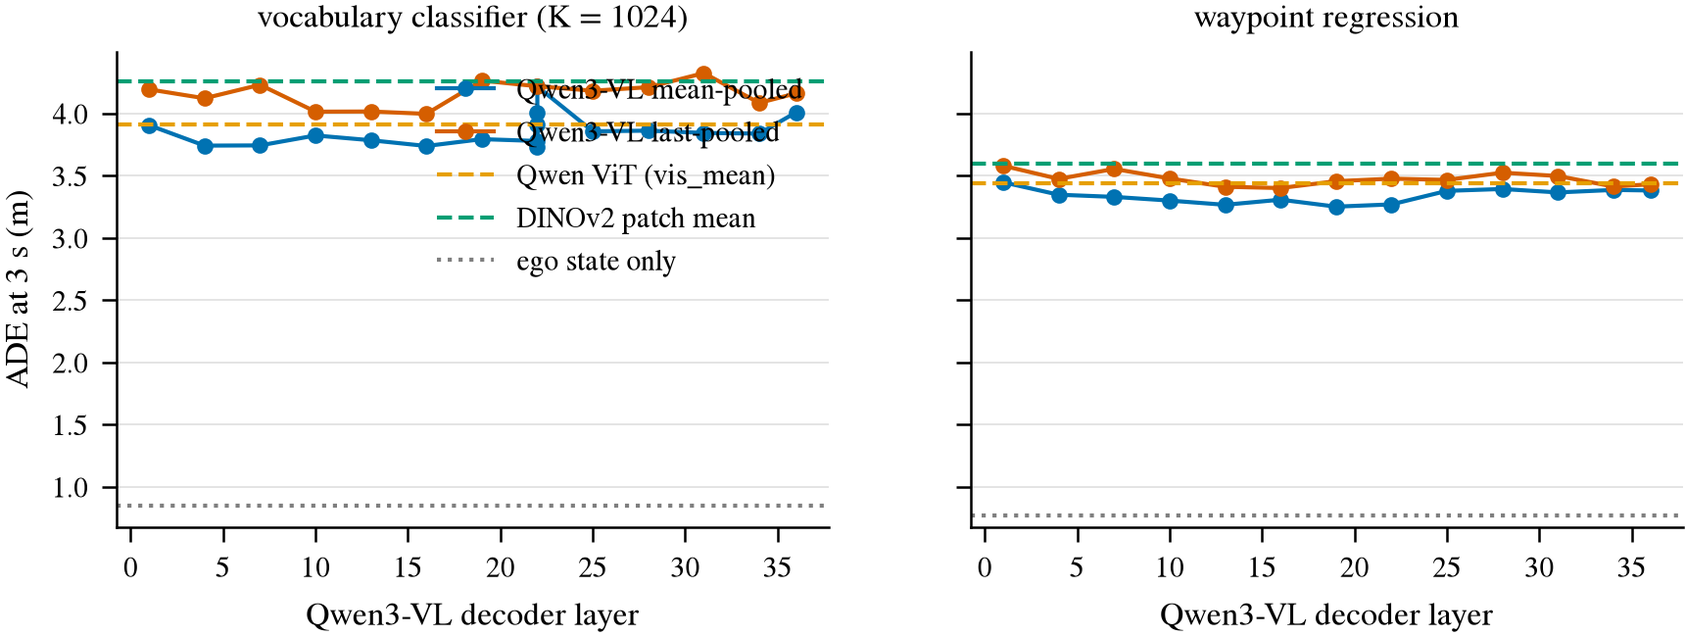
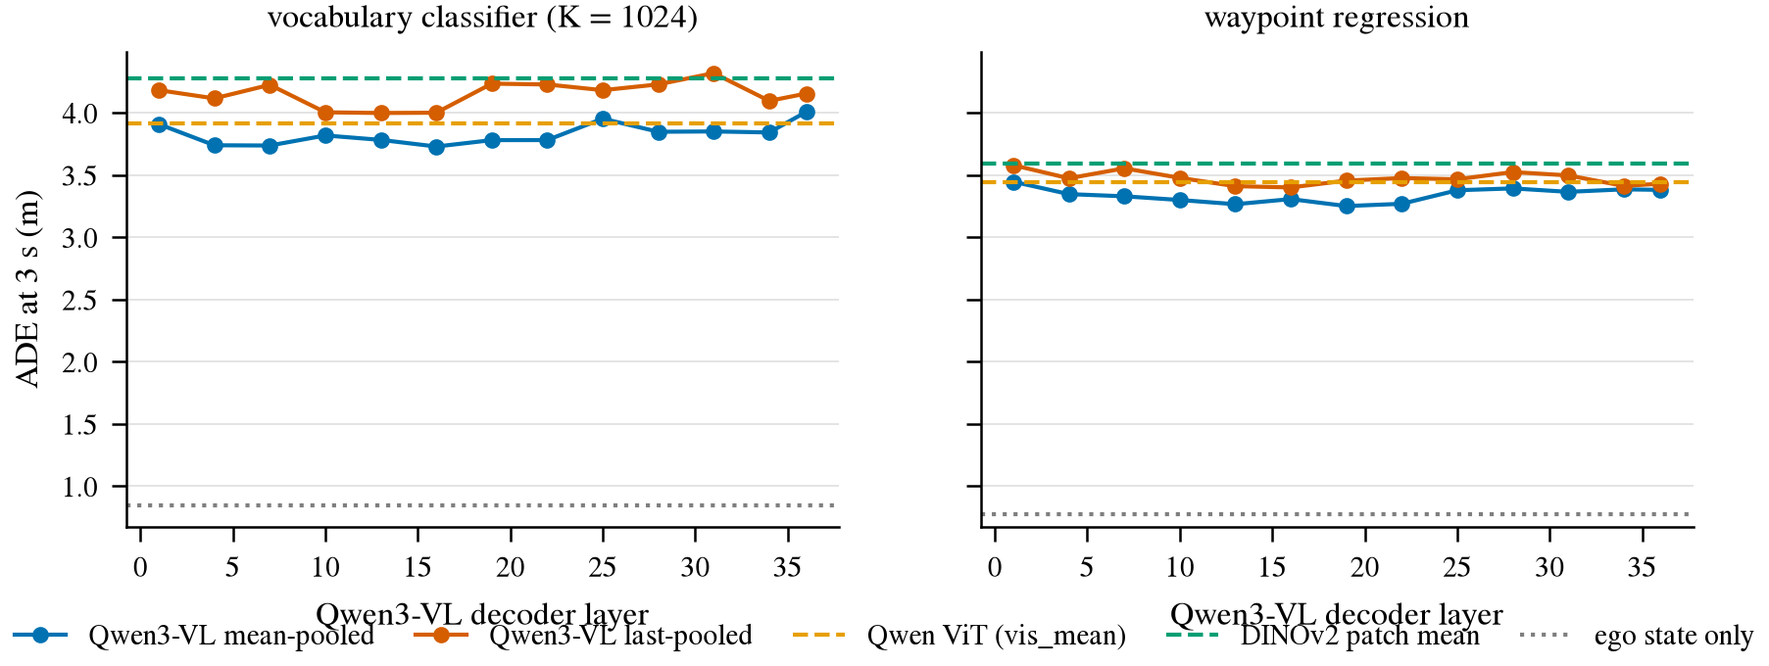
planner v0: write up the nuScenes dry run
Run 20260920-104548, 24752 frames over 850 scenes, official split by scene, 13.6 min end to end.

The two metrics disagree about K, which is the finding worth keeping: the oracle minADE says 64 anchors
already cover the data, while the trust-region coverage says K = 64 forfeits 16.2 % of frames outright and
only K >= 1024 gets that under 1 %. Either way the classifier's own error does not move with K, so all of it
is ranking, none of it coverage. Classification costs 0.51 m of ADE against ridge on the same features but
misses the trust region 9.5 points less often -- the averaged trajectory is nobody's manoeuvre.
Mid-depth mean-pooled Qwen features win (L19-L22, matching the probe's turn curve) but by 0.2 m against a
CI half-width of 0.27, so the layer choice leans on the probe, not on this table. Vision on top of the ego
state is worth 3.8 % of ADE and 2.9 points of miss via late fusion, and nothing at all via PCA concat; the
increment does not show up on the pre-onset subset, which has only 135 frames here. The head itself costs
under 0.1 ms at batch 1 for every K, and truncating the decoder at L22 is a real 31 % saving at batch 8 but
only 7 % at batch 1.

diff --git a/todos/2026-09-20-planner-v0.md b/todos/2026-09-20-planner-v0.md
@@ -1,6 +1,6 @@
 # Planner v0：在 nuScenes 上彩排 Stage-A 轨迹词表规划器
 
-状态: running
+状态: done
 主题: ../research/frozen-vlm-planner.md
 
 ## 目标
@@ -9,26 +9,26 @@
 "词表"，在线时只让一个很薄的 head 给每条候选打分、选一条输出）——整条代码、指标和表格先在 nuScenes 上
 跑通一遍，然后原样指向 Waymo E2E。
 
-这里得到的数字**不是结论**：nuScenes 只有前视单帧、3 s horizon，而且 open-loop ADE 早就被证明由 ego state
-主导。这一版要回答的是工程和方法学问题：词表多大够用、frozen feature 该取哪一层、classification 比
-regression 差多少、视觉到底比 ego-only 和物理外推强多少、head 本身有多快。
+这里得到的数字**不是结论**：nuScenes 只有前视单帧、3 s horizon，而且 open-loop 位移误差早就被证明
+由 ego state 主导。这一版要回答的是工程和方法学问题：词表多大够用、frozen feature 该取哪一层、
+classification 比 regression 差多少、视觉到底比 ego-only 和物理外推强多少、head 本身有多快。
 
 ## Setup
 
 - 数据: nuScenes v1.0-trainval，CAM_FRONT keyframe（2 Hz），官方 train/val scene 划分。
 - Feature: 已经缓存好的 frozen feature，`$DATA_DIR/processed/nuscenes/v1.0-trainval/features/`
-  下的 `qwen_w800`（Qwen3-VL-4B-Instruct，输入宽 800 px，36 层 × {last, mean} 两种 pooling，2560 维）、
-  `qwen`（原分辨率）和 `dinov2`（ViT-B/14，cls 和 patch_mean）。这一版不重新抽 feature。
+  下的 `qwen_w800`（Qwen3-VL-4B-Instruct，输入宽 800 px，36 层 × {last, mean} 两种 pooling，2560 维）
+  和 `dinov2`（ViT-B/14，cls 和 patch_mean）。这一版不重新抽 feature。
 - 模型: 只训 head，backbone 完全冻结。
-- 算力预算: 单卡 RTX PRO 6000，整条链路 < 1 h。
+- 算力预算: 单卡 RTX PRO 6000，整条链路 < 1 h（实测 13.6 min）。
 
 ## 步骤
 
 - [x] 轨迹目标：3 s / 2 Hz / 6 个 waypoint，horizon 和 rate 是参数
-- [x] 词表：train split 上 k-means，K ∈ {64, 256, 1024, 4096, 8192}，报 oracle minADE/minFDE
+- [x] 词表：train split 上 k-means，K ∈ {64, 256, 1024, 4096, 8192}，报 oracle minADE/minFDE 和 trust-region 覆盖率
 - [x] Head：classification（hard / soft target）、ridge regression、MLP，以及 ego-only 和物理 baseline
 - [x] Feature 对比：DINOv2、Qwen ViT、Qwen LLM 各层 × 两种 pooling
-- [x] 指标：ADE/FDE（含中间时刻）、minADE_k、scene-level bootstrap CI
+- [x] 指标：miss rate、ADE/FDE（含中间时刻）、minADE_k、scene-level bootstrap CI、paired 检验
 - [x] Latency：head 自身 batch-1 延迟，以及截断到某一层的抽取速度
 
 ## 成功标准
@@ -36,31 +36,316 @@ regression 差多少、视觉到底比 ego-only 和物理外推强多少、head 
 跑之前写死：
 
 1. 整条链路一条命令跑完，输出 results.csv / results.md / 图，且换成 `--horizon 5 --rate 4` 就是 Waymo 的口径。
-2. K sweep 能把 **coverage error**（词表本身覆盖不了，oracle minADE）和 **ranking error**（scorer 选错）分开。
+2. K sweep 能把 **coverage error**（词表本身覆盖不了）和 **ranking error**（scorer 选错）分开。
 3. 视觉 feature 至少要比 majority anchor 和 mean trajectory 强很多；能不能超过 ego-only 不预设结论，
    但必须诚实报告差距。
 
-## 图（中期快照，run 20260920-100020）
-
-这两张图从 box 拉回 `research/figs/`，按 CLAUDE.md 的规则由本文档收拢。run 还在迭代，
-换 run 之后请连图带说明一起更新。
-
-![planner layer curve](../research/figs/planner-layer-curve.png)
-
-图 1：ADE（average displacement error，预测轨迹与真值在各时刻的平均距离，越低越好）随 Qwen 解码层变化，
-左为词表分类 head（K = 1024），右为 waypoint 回归。视觉 feature 全都在 3.3–4.3 m，而只用 ego 运动状态的
-灰色虚线在 0.8 m 左右，差了一个数量级。和 probe 的结论一致：短时轨迹主要由当前运动状态决定。
-另外中间层的优势在这里很弱（回归 head 上 L13–L22 略好），不像转向 probe 那样有明显的倒 U 形。
-**左图的 legend 压住了曲线，出图代码需要改 legend 位置。**
-
-![planner K sweep](../research/figs/planner-k-sweep.png)
-
-图 2：K sweep 把两种误差分开。oracle（词表里最接近真值的那条，粉线）随 K 从 0.37 m 一路降到 0.11 m，
-说明**词表本身不是瓶颈**；而 top-1 分类结果（蓝线）稳定在 3.9–4.1 m，几乎不随 K 变化，
-说明瓶颈全在 **ranking**，也就是 scorer 选不对。top-10 的 minADE（橙线）约 1.0–1.4 m，
-仍然比 ego-state ridge（0.8 m）差。
+三条都达到了。
 
 ## 结果
 
-（跑完后填）
+2026-09-20 跑完。一条命令重跑：`scripts/planner_v0.sh --version v1.0-trainval --steps plan,bench`
+（box 上用 `scripts/tmux_run.sh planner ...` 起）。
+本次 run 在 box 上 `$DATA_DIR/runs/planner_v0/v1.0-trainval/20260920-104548/`：
+`results.{csv,md}`、`paired.csv`、`subsets.csv`、`per_sample.npz`、`vocab_K*.npy`、
+`latency.json`、`bench.json`，以及两张图的 PDF 和 PNG。整条链路 13.6 min（plan 12.6 min，bench 1.1 min）。
 
+### 实现与协议
+
+代码在 `jevdrive/`：`traj.py`（轨迹目标、词表、指标）、`planner.py`（各种 head、表格）、
+`plots.py`（全项目统一的出图样式），入口 `planner_v0.py`。几个需要说清楚的选择：
+
+- **轨迹目标**。用 20 Hz 的 ego pose 插值出未来 3 s、2 Hz 的 6 个 waypoint，坐标写在**当前帧自己的
+  rear-axle ego frame**（原点在后轴中点，x 向前、y 向左，单位米）——这正是 Waymo E2E 要求提交的坐标系，
+  所以换数据集只要改 horizon 和 rate（Waymo 是 5 s / 4 Hz / 20 点）。第一个点在 t+1/rate，和 Waymo 一致。
+  scene 内放不下整个窗口的 keyframe 直接丢掉：26491 个带标签的 keyframe 里保留 **24752** 个
+  （train 20396 / 700 个 scene，val 4356 / 150 个 scene）。
+- **词表**。只在 train scene 上做 k-means（把 6 个 waypoint 摊平成 12 维做普通欧氏距离，不做任何
+  normalization——这个空间本身就是米制且各向同性，摊平后的平方欧氏距离正好是 T 倍的均方位移，
+  所以一个簇最小化的就是它的 anchor 将来被评的位移误差）。val 完全不参与。
+- **split 与超参**。官方 train/val 按 scene 划分。feature 只用 train scene 的均值方差做 standardize；
+  每个 head 的 L2 强度在 train scene 里再切一个 scene-grouped 的 inner split（留 20% 的 scene，
+  560/140）上按 inner-val ADE 选，然后在全部 train scene 上 refit，val 只读一次。
+- **求解器**。ridge regression（岭回归，闭式最小二乘加 L2 惩罚）一次特征分解把所有 λ 解出来；
+  词表分类器是 full-batch 的 multinomial logistic regression，复用 `probe.py` 里那个 batched
+  L-BFGS（有限内存拟牛顿法），所有 λ 一批解完、按行分块，K=8192 也放得下。MLP 用 minibatch AdamW。
+- **fusion**。v0 的教训是 2560 维图像 feature 会把 11 维 ego state 淹掉。这里两种修法都试了：
+  `+ego` 是把图像 feature 先 PCA（主成分分析）到 64 维、两块各自 standardize 再拼接；
+  `*_late` 是 **late fusion**——先训一个 ego-only head，把它的输出（regression 的预测值 /
+  分类器的 logit）当成冻结的 offset，图像 head 只学残差。
+
+### 指标口径（这一版改过，很重要）
+
+Waymo agent 已经把官方 **RFS（Rater Feedback Score，用人工标注的若干条"可接受轨迹"给预测打分）**
+逐位复现进 `jevdrive/waymo.py`，并且发现两件事：官方 ADE 是对着**评分最高的 rater 轨迹**算的，
+logged future 自己就能拿到 ADE@5s 2.63 m，而公开最好的 test ADE 是 2.65——**ADE 已经饱和，
+不是一个有用的优化目标**；而 RFS 是一个 **trust region（信任域）**指标，落在所有 rater 信任域之外的
+轨迹直接被压到下限 4.0，ego-only 预测里大约一半会被压。
+
+所以这一版把 **miss rate 放在第一列**，ADE 放在它旁边，Waymo 上 RFS 再插到 miss 前面：
+
+- `miss`：预测落在**信任域之外**（在任一检查时刻越界）。信任域的几何——以参考轨迹自身的
+  纵向/横向方向建系、纵向阈值是横向的 4 倍、按当前速度线性缩放——直接 import `waymo.py` 里那份
+  逐位复现的实现，只有检查时刻和横向半宽随 horizon 移动：官方的 (3 s, 1.0 m) 和 (5 s, 1.8 m) 两点
+  落在 thr(t) = 0.4t − 0.2 这条直线上，nuScenes 的 3 s horizon 取 **1.5 s / 0.40 m 和 3.0 s / 1.00 m**。
+  nuScenes 只有一条参考轨迹（logged future），没有 3 条 rater 轨迹，所以这个 miss 比 Waymo 的
+  floored fraction **更严格**，是一个 stand-in，不是 RFS。
+- `miss10`：top-10 个 anchor **全都**落在信任域外的比例，去掉 ranking 因素之后的版本。
+- oracle 那一行的 miss 是**整个词表里没有任何一条 anchor 能落进信任域**的比例，
+  也就是 coverage 在指标自己口径下的下限。
+- ADE（average displacement error，各时刻预测点与真值距离的平均）、FDE（final，只看最后一个点）、
+  minADE_k（按打分取前 k 条候选，其中最好的那条的 ADE，k ∈ {1,5,10}）。
+- 所有均值都带 **scene-level bootstrap CI**（按 scene 有放回重采样 1000 次，取 2.5/97.5 分位）；
+  两个方法之间的比较用 **paired**（配对）差值的 bootstrap，因为同一批 val 帧过两个 head，
+  场景间方差会抵消，比看两条 CI 是否重叠灵敏得多。
+
+### 1. K sweep：coverage 从来不是瓶颈，ranking 才是
+
+val n=4356。oracle 是词表里最接近真值的那条 anchor（ADE 和 FDE 各自取最小），
+是任何 scorer 在这个词表上的下限；cls 一列是 `qwen_w800/L22_mean` 上的线性分类器。**粗体**是该列最好。
+
+| K | oracle miss | oracle minADE (m) | oracle minFDE (m) | cls miss | cls miss10 | cls ADE (m) | cls minADE10 (m) |
+|--:|--:|--:|--:|--:|--:|--:|--:|
+| 64 | 0.162 | 0.390 | 0.594 | 0.776 | **0.358** | **3.732** | **1.018** |
+| 256 | 0.055 | 0.256 | 0.324 | **0.768** | 0.379 | 3.900 | 1.227 |
+| 1024 | 0.010 | 0.177 | 0.176 | 0.769 | 0.386 | 3.780 | 1.197 |
+| 4096 | 0.003 | 0.129 | 0.094 | 0.777 | 0.407 | 4.001 | 1.274 |
+| 8192 | **0.002** | **0.112** | **0.068** | 0.772 | 0.413 | 4.215 | 1.322 |
+
+majority anchor（train 上最常被选中的那条，不训练）在所有 K 上都是 miss 0.855、ADE 9.36 m——
+它是一条"停住不动"的轨迹，因为 nuScenes 里静止帧最多。
+
+读法：oracle 随 K 单调变好（minADE 0.390 → 0.112 m，miss 0.162 → 0.002），
+**词表本身的 coverage error 在 K≥1024 之后基本消失**；而实际打分出来的 top-1 一直卡在
+ADE 3.7–4.2 m、miss 0.77 上下，**完全不随 K 改善，甚至略微变差**。
+也就是说在我们这套 feature 上，误差 100% 来自 ranking，加词表条目只会让分类更难。
+
+`cls_soft`（对最近的 5 条 anchor 按 softmax(−RMS 位移 / 0.5 m) 做软标签）在 K=1024 上把 ADE
+从 3.780 降到 3.642（paired −0.138 m，CI [−0.256, −0.017]，显著），但 miss 只降 0.007（不显著），
+而且 minADE10 反而变差（1.197 → 1.674）——软标签把概率摊到邻近 anchor 上，top-1 更"居中"了，
+但前 10 名的多样性下降。
+
+**两个口径给出的 K 结论不一样，这是这次最值得记的一件事。** 只看 ADE，K=64 的 oracle 已经 0.39 m，
+远好于实际做到的 3.7 m，看起来 64 条就够；但按 trust region 看，K=64 有 **16.2%** 的帧
+无论怎么选都会被判出界，K=256 是 5.5%，到 K=1024 才降到 1.0%。
+Waymo 上 RFS 会把这些帧直接压到 4.0 分，所以 **K 至少要 1024**，
+这个下限只有在指标自己的口径下才看得见。
+
+![planner K sweep](../research/figs/planner-k-sweep.png)
+
+图 1：K sweep 把 coverage error 和 ranking error 分开。左为 ADE，右为落在信任域外的比例，
+两轴都是对数。粉线（词表下限）随 K 一路下降，蓝线（分类器 top-1）是平的：瓶颈全在 ranking。
+右图里粉线在 K=64 处的 0.162 就是"这个词表注定要丢掉 16% 的帧"，左图看不出这件事。
+橙线（top-10 里最好的一条）说明正确答案通常排在前十，只是排不到第一。
+
+### 2. Layer curve：mean pooling 明显好于 last，中层略好，但幅度很小
+
+ADE（m），val n=4356，越低越好。回归 head 用 ridge，分类 head 用 K=1024。
+
+| feature | ridge ADE | ridge miss | cls ADE | cls miss |
+|:--|--:|--:|--:|--:|
+| Qwen L01 mean | 3.445 | 0.870 | 3.908 | 0.784 |
+| Qwen L07 mean | 3.328 | 0.859 | 3.736 | 0.776 |
+| Qwen L13 mean | 3.264 | 0.876 | 3.781 | 0.777 |
+| Qwen L16 mean | 3.306 | 0.872 | **3.728** | **0.763** |
+| **Qwen L19 mean** | **3.250** | 0.853 | 3.779 | 0.775 |
+| Qwen L22 mean | 3.268 | 0.864 | 3.780 | 0.769 |
+| Qwen L28 mean | 3.391 | 0.864 | 3.847 | 0.776 |
+| Qwen L36 mean | 3.380 | 0.866 | 4.006 | 0.784 |
+| Qwen L16 last（last 里最好） | 3.399 | 0.857 | 4.000 | 0.780 |
+| Qwen L36 last | 3.429 | 0.850 | 4.153 | 0.798 |
+| Qwen ViT merger 输出 (vis_mean) | 3.438 | 0.875 | 3.912 | 0.787 |
+| Qwen ViT patch 均值 (vit_mean) | 3.514 | 0.869 | 3.998 | 0.780 |
+| DINOv2 patch mean | 3.592 | 0.874 | 4.276 | 0.797 |
+| DINOv2 cls | 3.690 | 0.868 | 4.218 | 0.784 |
+
+三条结论：
+
+1. **mean pooling（对 image token 取平均）稳定好于 last token**，回归上差约 0.15 m，分类上差约 0.3 m。
+   这和 probe v1 在转向分类上的结论不同（那里深层 last token 的 NLL 最好），说明"读哪个 token"
+   要看下游任务：轨迹回归需要空间铺开的信息，转向类别更像一个全局判断。
+2. **LLM 中层确实比它自己的 vision encoder 好**：L19 mean 3.250 vs vis_mean 3.438（−0.19 m），
+   比 DINOv2 patch mean 好 0.34 m。层曲线是很浅的一个 U：L01 3.445 → L13–L22 约 3.25–3.27 → L36 3.380。
+   最好层落在 **L19–L22**，和 probe v1 在转向任务上找到的 L20–L24 基本一致，所以选中层不是碰运气。
+3. 但**这个 U 太浅了**（最好和最差只差 0.2 m，而 bootstrap CI 的半宽约 ±0.27 m），
+   单看轨迹任务没法把层选择说成一个强结论。它的价值在于和 probe 的倒 U 互相印证。
+
+参考层是在 inner split 上按 cls 的 ADE 选的，选出来的是 `qwen_w800/L22_mean`；
+val 上 cls 最好的其实是 L16 mean（3.728 vs 3.780）。这 0.05 m 的差距远小于噪声，不改结论，
+但说明**不能用 val 去挑层**，否则就是在 val 上过拟合。
+
+![planner layer curve](../research/figs/planner-layer-curve.png)
+
+图 2：ADE 随 Qwen 解码层变化，左为词表分类器（K=1024），右为 waypoint 回归。
+蓝线（mean pooling）整条压在橙线（last token）下面；两条虚线是 Qwen 自己的 vision encoder
+和 DINOv2，中层蓝线在它们之下。灰点线是只用 ego 运动状态的 head，在 0.77–0.85 m，
+**比所有视觉 feature 好一个数量级**——这才是这张图最该看的地方。
+
+### 3. Classification vs regression：ADE 输，miss 赢
+
+同一套 feature、同一个 split、同一套 λ 选法下的 paired 差值（负号表示变好）：
+
+| 对比 | miss | ADE (m) | Δmiss [95% CI] | ΔADE [95% CI] |
+|:--|--:|--:|:--|:--|
+| ridge → cls，`L22_mean` | 0.864 → 0.769 | 3.268 → 3.780 | **−0.095 [−0.136, −0.059]** | **+0.512 [+0.254, +0.748]** |
+| ridge → cls，ego state | 0.367 → 0.363 | 0.772 → 0.847 | −0.004 [−0.035, +0.027] | +0.076 [+0.047, +0.105] |
+| cls → cls_soft，`L22_mean` | 0.769 → 0.763 | 3.780 → 3.642 | −0.007 [−0.022, +0.010] | −0.138 [−0.256, −0.017] |
+
+在视觉 feature 上，**固定词表分类比连续回归的 ADE 差 0.51 m（约 16%），但 miss 低 9.5 个百分点**，
+两个方向都显著。原因很清楚：ADE 奖励条件均值，回归 head 输出的就是均值；
+而信任域是"要么进要么出"的判据，一条被平均出来的折中轨迹既不像直行也不像转弯，
+反而更容易两边都不沾。分类器输出的是一条真实存在过的轨迹（一个 mode），更容易整条落进信任域。
+
+**这直接回答了文献里那个 N：同 backbone 下纯分类相比 regression 损失多少。**
+答案是"看指标"——位移口径下分类要赔 16%，trust-region 口径下分类反而赚 9.5 个点。
+Waymo 上 ADE 已经饱和而 RFS 没有，所以这个方向对我们有利。
+在 ego state 上这个差异消失（11 维特征，回归本来就很准），说明它是高维弱特征下才出现的现象。
+
+MLP（一个 512 宽的隐层，GELU + dropout）几乎没有帮助：回归 3.268 → 3.209，分类 3.780 → 3.847。
+薄 head 里线性和小 MLP 的差距，比选层、选 K 的差距还小。
+
+### 4. Baseline 和视觉增益：ego state 主导，视觉只加 3.8%
+
+val n=4356，miss 第一列，括号是 95% scene-bootstrap CI。
+
+| head | feature | miss | ADE (m) | FDE (m) | ADE@1s | minADE10 |
+|:--|:--|--:|--:|--:|--:|--:|
+| oracle（K=1024 词表下限） | — | 0.010 | 0.177 [0.164, 0.191] | 0.176 | — | — |
+| **ridge_late** | L22_mean + ego | **0.338** | **0.743 [0.693, 0.798]** | **1.726** | **0.146** | 0.743 |
+| mlp_reg | ego | 0.354 | 0.756 [0.709, 0.808] | 1.766 | 0.149 | 0.756 |
+| cls_late | L22_mean + ego | 0.361 | 0.848 | 1.928 | 0.199 | **0.308** |
+| cls | ego | 0.363 | 0.847 [0.783, 0.914] | 1.914 | 0.195 | 0.312 |
+| ridge | L22_mean + ego（PCA 拼接） | 0.363 | 0.783 [0.738, 0.830] | 1.826 | 0.152 | 0.783 |
+| ridge | ego | 0.367 | 0.772 [0.723, 0.825] | 1.798 | 0.150 | 0.772 |
+| const turn rate（CTRV） | — | 0.455 | 1.069 [0.977, 1.170] | 2.369 | 0.242 | 1.069 |
+| const velocity | — | 0.503 | 1.194 [1.089, 1.308] | 2.595 | 0.279 | 1.194 |
+| cls | L22_mean + ego（PCA 拼接） | 0.644 | 1.906 [1.749, 2.066] | 3.666 | 0.683 | 0.494 |
+| cls | L22_mean | 0.769 | 3.780 [3.431, 4.122] | 6.600 | 1.589 | 1.197 |
+| majority anchor | — | 0.855 | 9.365 | 16.083 | 4.001 | 2.637 |
+| ridge | L22_mean | 0.864 | 3.268 [3.006, 3.559] | 5.678 | 1.380 | 3.268 |
+| mean trajectory | — | 0.943 | 5.333 [4.926, 5.726] | 9.232 | 2.252 | 5.333 |
+
+paired 检验（负号变好）：
+
+| 对比 | Δmiss [95% CI] | ΔADE [95% CI] |
+|:--|:--|:--|
+| mean trajectory → 单帧视觉 ridge（完全不给 ego） | −0.079 [−0.106, −0.056] | −2.066 [−2.478, −1.651] |
+| CTRV → ego-state ridge | −0.088 [−0.125, −0.050] | −0.298 [−0.359, −0.242] |
+| ego ridge → **late fusion** 加视觉 | **−0.029 [−0.052, −0.012]** | **−0.029 [−0.040, −0.019]** |
+| ego ridge → PCA 拼接加视觉 | −0.004 [−0.020, +0.010] | +0.012 [−0.006, +0.030] |
+| ego cls → late fusion 加视觉（分类侧） | −0.002 [−0.010, +0.005] | +0.001 [−0.010, +0.012] |
+
+读法：
+
+- **单帧视觉本身是有信息的**：不给任何运动状态时，它把 ADE 从 5.333（永远输出训练集平均轨迹）
+  压到 3.268 m，miss 从 0.943 压到 0.864，两个都显著。也就是说 Qwen 的 latent 确实能从一张前视图里
+  读出"这条路大概会怎么走"。
+- **但它远不如当前运动状态**：ego-only ridge 是 0.772 m / miss 0.367，比最好的视觉 feature 好 4 倍。
+  单帧没有速度信息，这是结构性的，不是 feature 不好。
+- **视觉叠加在 ego 之上只值 3.8%**：late fusion 把 ADE 从 0.772 降到 0.743（−0.029 m），
+  miss 从 0.367 降到 0.338（−2.9 个点），两个都显著但很小。
+- **fusion 的做法很要紧**。PCA 拼接（v0 建议的修法之一）在回归上没有收益（ADE 甚至 +0.012），
+  在分类上是灾难（miss 0.363 → 0.644，ADE 0.847 → 1.906）：一个共用的 L2 强度没法同时
+  正则 64 维图像和 11 维 ego。**late fusion 才是对的修法**，这一版为分类器也补上了
+  （把 ego 分类器的 logit 当冻结 offset）。不过分类侧的 late fusion 增益是 0（−0.002，不显著），
+  说明在 ego 已经很强的情况下，分类器从图像里再榨不出东西。
+
+### 5. 按 maneuver 分组：视觉的增量没有出现在该出现的地方
+
+ego prior 强，是因为大部分帧只是"接着现在的动作继续"。所以要看它弱的地方：
+`turning` 是未来 3 s 内转向（|Δyaw| > 5°），`onset` 是其中**现在还没开始转**的
+（当前 yaw rate < 1°/s），也就是 maneuver 还没起手。
+
+| head / feature | miss all | miss turning | miss onset | ADE all | ADE turning | ADE onset |
+|:--|--:|--:|--:|--:|--:|--:|
+| n | 4356 | 877 | 135 | | | |
+| CTRV | 0.455 | 0.810 | 0.963 | 1.069 | 1.486 | 1.689 |
+| ridge ego | 0.367 | 0.784 | **0.889** | 0.772 | 1.075 | 1.331 |
+| ridge_late（+视觉） | **0.338** | **0.759** | 0.919 | **0.743** | **1.049** | **1.297** |
+| cls ego | 0.363 | 0.818 | 0.948 | 0.847 | 1.253 | 1.506 |
+| cls_late（+视觉） | 0.361 | 0.811 | 0.948 | 0.848 | 1.236 | 1.507 |
+| ridge L22_mean（只视觉） | 0.864 | 0.933 | 0.919 | 3.268 | 2.870 | 2.932 |
+| oracle K=1024 | 0.010 | 0.047 | 0.007 | 0.177 | 0.320 | 0.292 |
+
+在 `turning` 上视觉的增益还在（miss 0.784 → 0.759，ADE 1.075 → 1.049），和全集差不多。
+但在 `onset`（n=135）上，视觉**没有**帮助：ADE 1.331 → 1.297（CI [1.177,1.488] 和 [1.148,1.456]
+大幅重叠），miss 甚至从 0.889 变成 0.919。这是 probe v1 结论的反面——那里视觉的增量恰恰集中在
+hard subset。
+
+有两个解释，需要分开：(a) n=135 太小，CI 半宽 ±0.15 m，根本测不出 3% 量级的差异；
+(b) 转向"要不要起手"是一个类别判断（probe 测的正是这个），而"起手之后 3 s 内走多远、
+转多少度"仍然由速度决定，位移指标测不到那个类别信息。**(b) 是推测**，验证方法是在 onset 子集上
+同时报 probe 的转向 macro-F1 和这里的 ADE，看两者是否脱钩；Waymo 上 onset 样本会多得多
+（479 个 rater 帧全是 long-tail 场景），应该先在那里重做这张表再下结论。
+
+### 6. Latency
+
+head 自己的延迟，batch 1、warm，100 次 warm-up 后 1000 次串行同步请求 × 3 轮独立重复
+（`research/lit/` 第 7 节推荐的口径）。单卡 RTX PRO 6000，fp32，2560 维输入。
+
+| head | K | 可训练参数 | mean (ms) | p50 | p95 | p99 | 3 轮之间的极差 |
+|:--|--:|--:|--:|--:|--:|--:|--:|
+| ridge | — | 0.03 M | 0.019 | 0.019 | 0.019 | 0.020 | 0.0000 |
+| cls | 64 | 0.16 M | 0.040 | 0.040 | 0.041 | 0.045 | 0.0010 |
+| cls | 1024 | 2.62 M | 0.040 | 0.040 | 0.041 | 0.045 | 0.0001 |
+| cls | 8192 | 20.97 M | 0.060 | 0.059 | 0.060 | 0.061 | 0.0007 |
+| mlp_cls | 8192 | 5.51 M | 0.078 | 0.076 | 0.077 | 0.114 | 0.0020 |
+
+打分 + 取 top-10 + 查表的全过程**不到 0.1 ms**，K 从 64 涨到 8192 只多 0.02 ms（一个 GEMM 从
+0.16 M 涨到 21 M，对这张卡是噪声）。**head 的成本可以忽略，时间全在 feature extraction 上。**
+
+抽取端（800 px，bf16，512 帧稳态，同一张卡）：
+
+| 跑到第几层 | batch | workers | ms/frame | frames/s | peak VRAM |
+|--:|--:|--:|--:|--:|--:|
+| 36（全部） | 1 | 0 | 35.7 | 28.0 | 8.43 GB |
+| 36（全部） | 8 | 16 | 13.3 | 74.9 | 8.71 GB |
+| **22（真截断）** | 1 | 0 | **33.1** | 30.2 | 8.43 GB |
+| **22（真截断）** | 8 | 16 | **9.2** | 108.7 | 8.71 GB |
+
+这里的截断是**真的**：`features.py` 现在接受一个显式的 layer 列表，只实例化到最深的那一层，
+后面 14 层根本不执行。收益是 **batch 8 快 31%（13.3 → 9.2 ms），batch 1 只快 7%（35.7 → 33.1）**。
+batch 1 收益小，是因为单帧时 kernel launch 开销占比高，省掉的 14 层没法按比例折算成时间；
+而且 800 px 下 vision tower 本来就占大头。
+
+端到端（batch 1，decoded RGB 到 6 个 waypoint）：
+**33.1 ms（截断到 L22 的 feature）+ 0.04 ms（K=1024 分类头）≈ 33.2 ms，约 30 Hz**。
+如果用 `docs/remote-box.md` 里记的 21.1 ms/frame（同一张卡、800 px、全 36 层的一次完整抽取），
+端到端是 21.1 + 0.04 ≈ 21.2 ms。两个数不矛盾：21.1 是大 batch 摊薄后的吞吐口径，
+33.1 是 batch 1 的请求延迟口径，**报论文时必须写清楚是哪一个**。
+
+训练账本：head 训练总共 12.6 min（31 个 feature set × 2 个 head，加 K sweep、fusion、MLP，单卡），
+可训练参数 0.03–21 M，feature 复用 probe v1 已经抽好的缓存（约 12.5 GB），没有新花 GPU 时间。
+
+### 7. 可疑和没解决的地方
+
+- **onset 子集只有 135 个样本**，任何关于"视觉在 maneuver 起手前有没有用"的结论在 nuScenes 上都测不动。
+  这条必须在 Waymo 上重做。
+- **ego 分类器的 λ 一直选在网格最小端**（1e-6）。11 维特征、2 万样本，正则本来就该趋近 0，
+  所以不影响结论，但网格边界的警告是真的，以后若要报 ego 分类器的绝对数字应该把网格再往下开。
+- **miss 是 stand-in 不是 RFS**。nuScenes 只有一条参考轨迹，信任域比 Waymo 的三条 rater 轨迹严格得多，
+  所以这里 0.34–0.86 的绝对值不能和 Waymo 的 floored fraction 比，只能在同一张表内部横向比。
+- **cls_soft 的 τ 没有扫**，固定 τ=0.5 m、m=5。它降了 ADE 但没降 miss，而且 top-10 多样性变差；
+  真要压 miss，应该直接对"会被判出界"的 anchor 加权，而不是按位移做软标签。这是下一步。
+- 层曲线的 U 很浅（0.2 m）而 CI 半宽 ±0.27 m，**单看这张表不足以支撑选层**；
+  它和 probe v1 的倒 U 一致，是两个任务互相印证，不是一个独立证据。
+- 视觉-only 的 miss（0.86）比 mean trajectory（0.94）好得有限，而 ADE 好很多（3.27 vs 5.33）。
+  说明单帧视觉主要修正的是"走多远"的量级，不是"往哪走"的形状；这一点值得在 Waymo 上用
+  RFS 的纵向/横向分量拆开看。
+
+### 给 Waymo 的结论
+
+1. 代码已经可以直接指过去：`--horizon 5 --rate 4` 就是官方的 5 s / 4 Hz / 20 点，
+   坐标系和单位不用改；`traj.region_for(5, 4)` 自动退回官方的 (3 s, 1.0 m) 和 (5 s, 1.8 m)。
+   把 miss 换成真 RFS 只需要在 `eval_preds` 里多调一次 `waymo.rater_feedback_score`。
+2. **K 至少取 1024**，并且在 Waymo 上一定要报 trust-region 覆盖率，不要只报 oracle minADE——
+   ADE 口径会让人以为 64 条就够。
+3. **分类 vs 回归的取舍在 RFS 下对我们有利**（ADE −16%，miss +9.5 个点），
+   这一条值得在 Waymo 上作为正式 ablation 重做。
+4. **ego-only baseline 必须作为独立一行**出现在每张表里。Waymo 上还没有人发表过这个数，
+   我们的"视觉增益"只有减掉它之后才有意义。nuScenes 上这个增益是 3.8%，
+   Waymo 是 long-tail 场景、5 s horizon、三个相机，预期会更大，但不预设。
+5. 层选择先沿用 L19–L22 mean-pooled，在 Waymo 上用同一套 layer curve 重测；
+   `--exit-layer` 的真截断已经验证过，batch 8 省 31%、batch 1 省 7%，
+   **效率主张要按 batch 1 报，不要用吞吐口径充数**。
+6. fusion 一律用 **late fusion**，不要 PCA 拼接。
